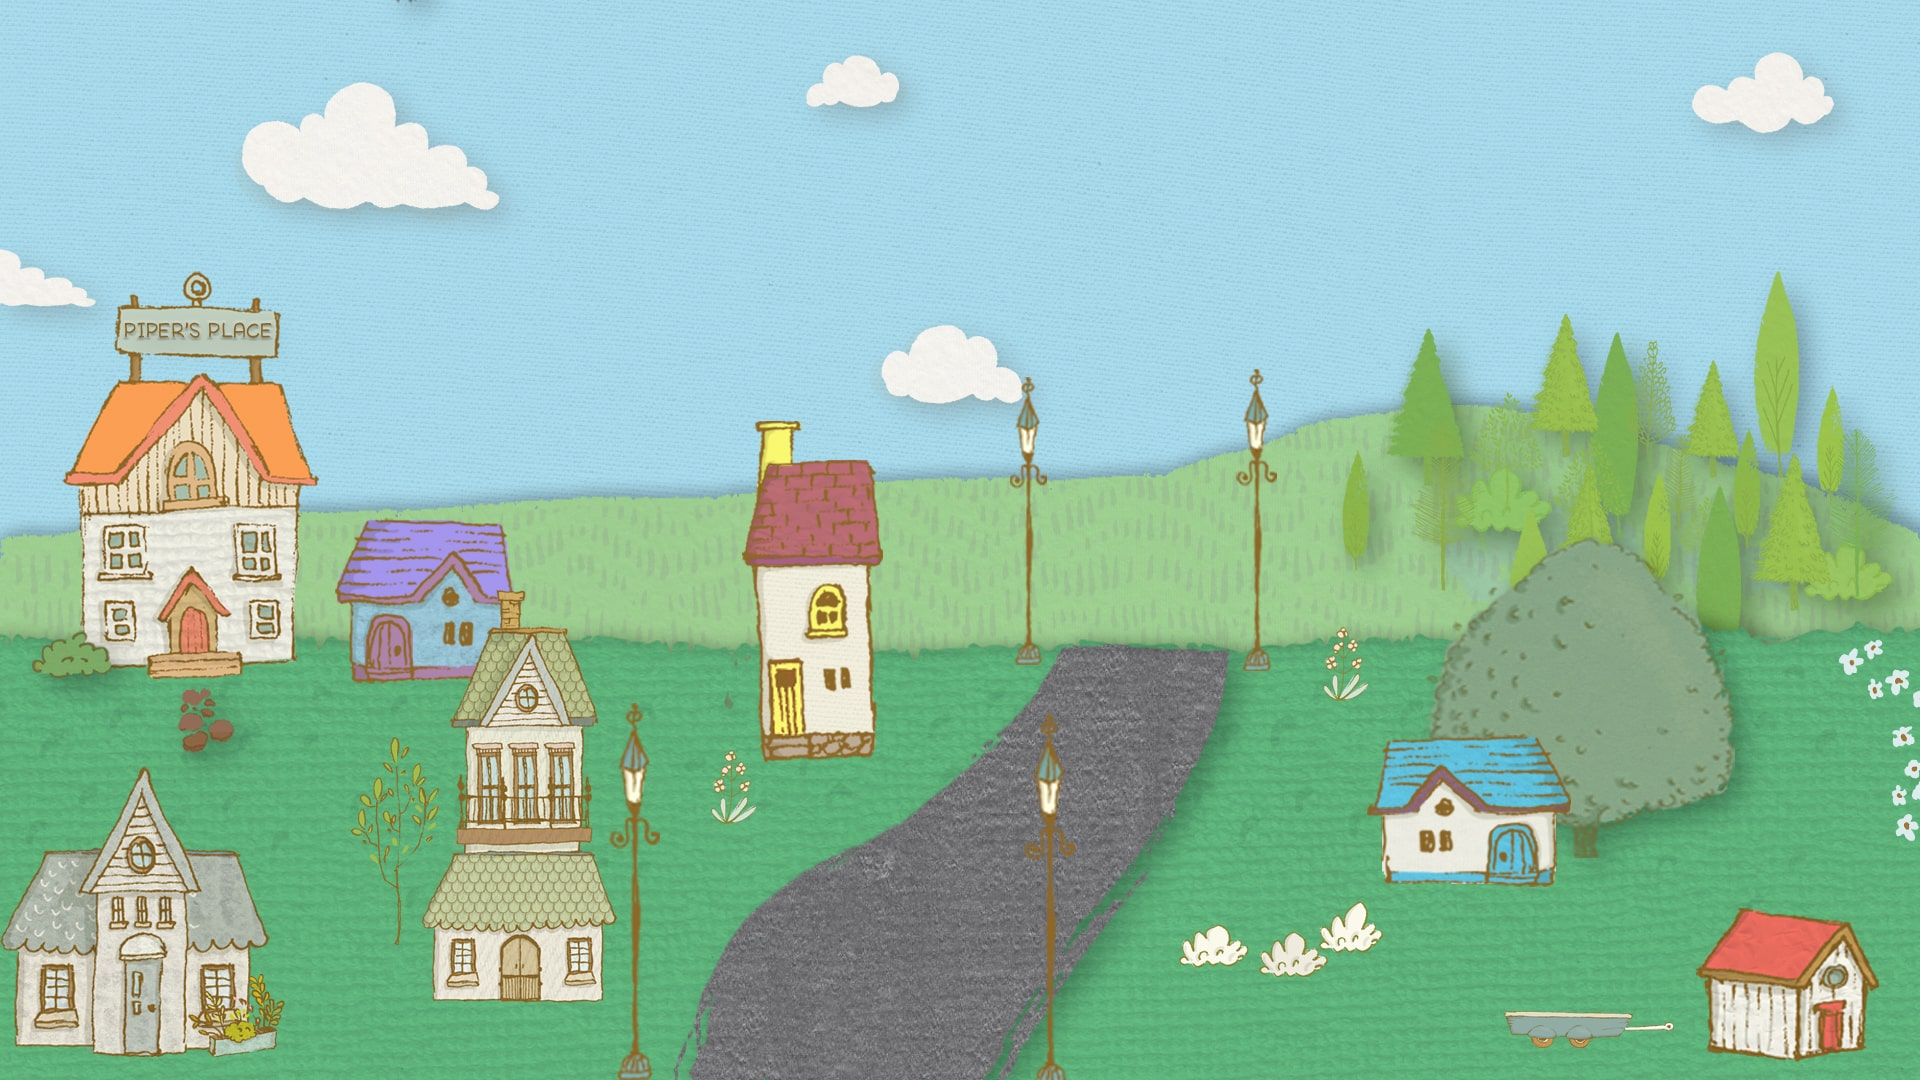
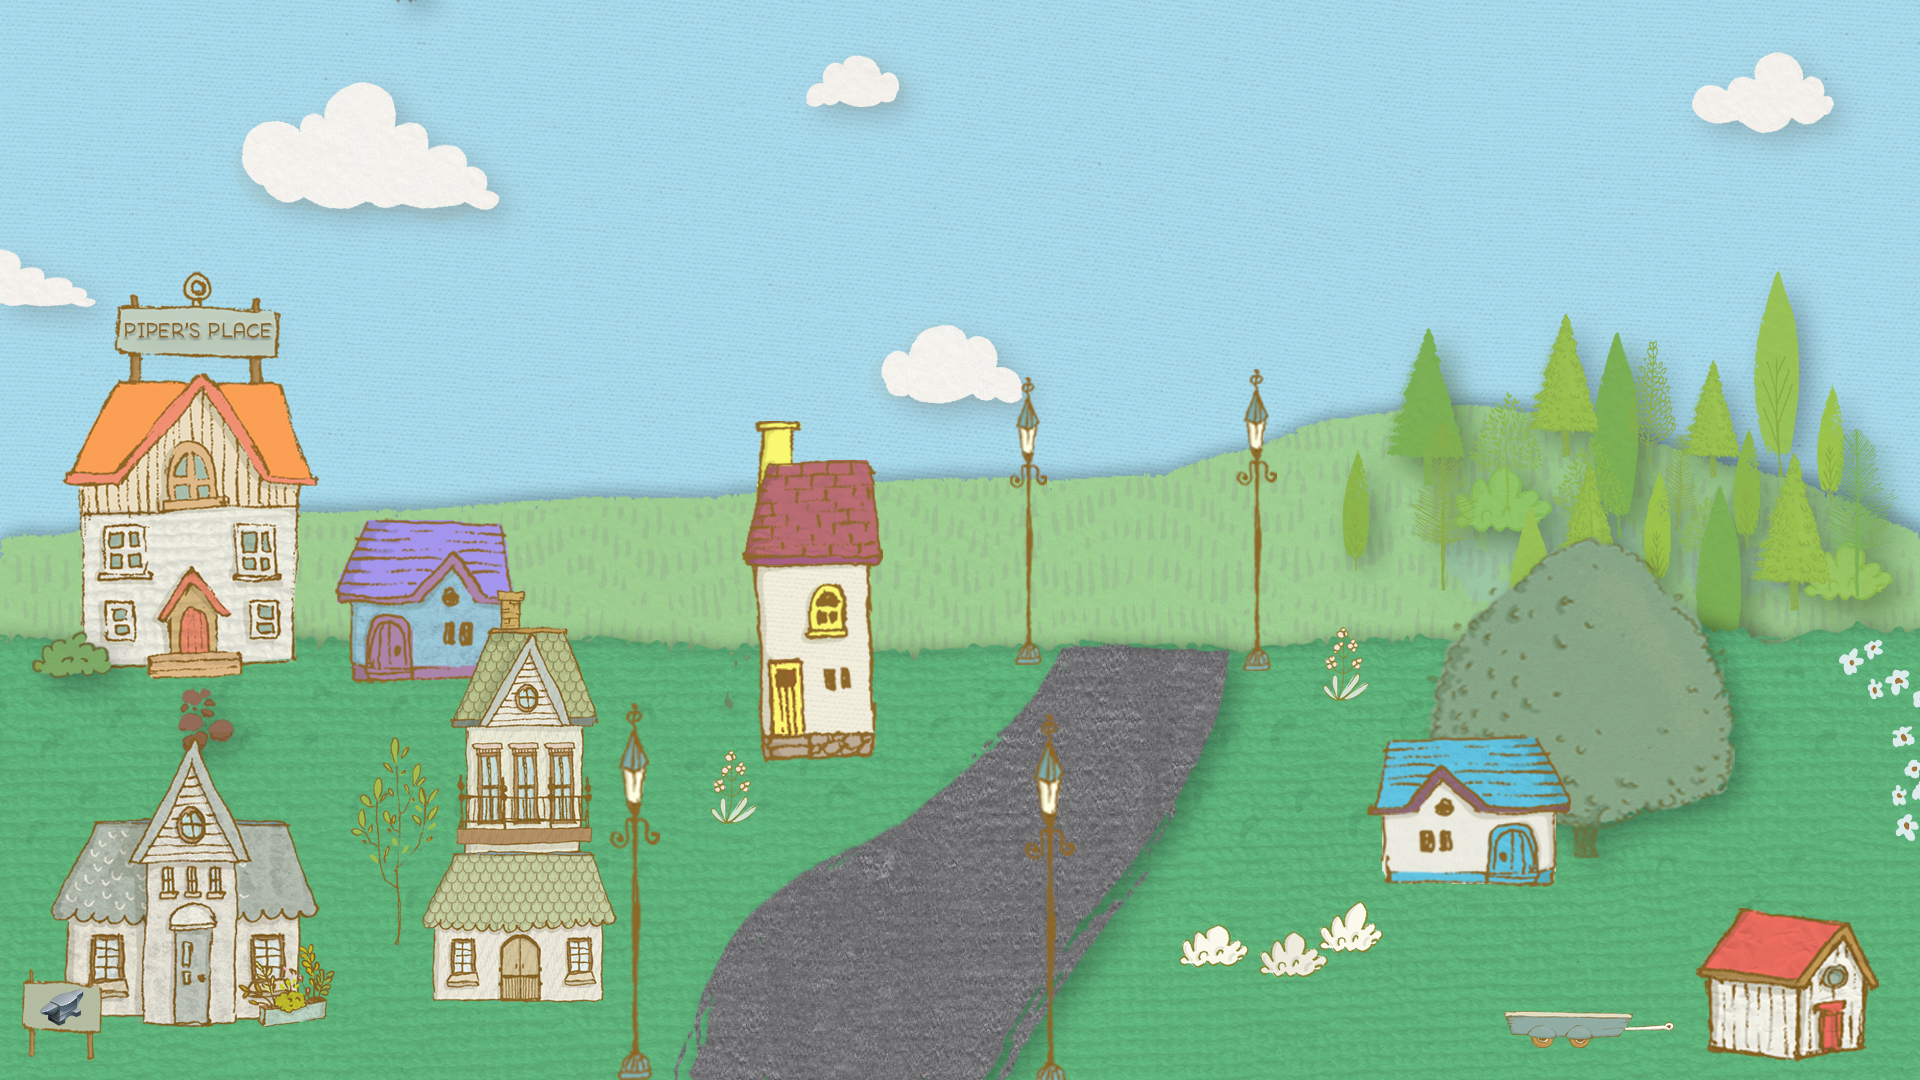
Updates

diff --git a/src/pages/CaCoTaMo.vue b/src/pages/CaCoTaMo.vue
@@ -17,7 +17,7 @@
           and once a week, likely every Sunday I'll be taking a day to do some cleanup and bug fixes. I'm hoping to do something every day, but like with NaNoWriMo, the end goal is what's important.
           Some days I may fall ahead, and others I might do more than one task. But you'll be able to check in every step of the way to see where we're headed.
           <br><br>
-          Most days probably won't involve a full site update, but the plan is to get new features up and running once their working, so you can expect progress at least every Monday throughout November.
+          Most days probably won't involve a full site update, but the plan is to get new features up and running once they're working (the Tasklin level up stuff will need to be tested first though), so you can expect progress at least every Monday throughout November.
           And, as always, if you have any issues, please use the help button via the ? button and submit a ticket (you should be able to access this on mobile now as well from the home page). 
         </div>
         </div>
@@ -40,10 +40,10 @@
 
         <div class="tamo-list row">
           <div class="tamo-task task-true">Update Tasklin Moods</div>
-          <div class="tamo-task task-false">Tasklins Show Level 2+ Art</div>
-          <div class="tamo-task task-false">Complete Tasklin Creator</div>
-          <div class="tamo-task task-false">Add Tasklin Stats</div>
-          <div class="tamo-task task-false">Tasklins Can Level Up</div>
+          <div class="tamo-task task-true">Tasklins Show Level 2+ Art</div>
+          <div class="tamo-task task-true">Complete Tasklin Creator</div>
+          <div class="tamo-task task-true">Add Tasklin Stats</div>
+          <div class="tamo-task task-true">Tasklins Can Level Up</div>
         </div>
 
         <div class="tamo-list row">
@@ -51,15 +51,15 @@
           <div class="tamo-task task-false">Better Sort on Challenges</div>
           <div class="tamo-task task-false">Update Tasklins.com</div>
           <div class="tamo-task task-false">Open for Public SignUps</div>
-          <div class="tamo-task task-false">Update Home Page To Do List</div>
+          <div class="tamo-task task-true">Update Home Page To Do List</div>
         </div>
 
         <div class="tamo-list row">
           <div class="tamo-task task-true">Tasklin Nose/Eyelid Art</div>
           <div class="tamo-task task-true">More Tasklin Body Types</div>
           <div class="tamo-task task-true">Blacksmith Art</div>
-          <div class="tamo-task task-false">Tasklin Ears/Horns Art</div>
-          <div class="tamo-task task-false">Tasklin Pattern Art</div>
+          <div class="tamo-task task-true">Tasklin Ears/Horns Art</div>
+          <div class="tamo-task task-true">Tasklin Pattern Art</div>
         </div>
 
         <div class="tamo-list row">

diff --git a/src/pages/map/town.vue b/src/pages/map/town.vue
@@ -1,8 +1,19 @@
 <template>
   <q-page padding>
     <div class="q-ma-lg">
+    <div class="center">
+      <q-btn @mouseover="showPiper = true" @mouseleave="showPiper = false" class="btn-fixed-width q-ma-sm" push to="/town" label="Piper's Place" color="secondary" />
+      <q-btn @mouseover="showBlacksmith = true" @mouseleave="showBlacksmith = false" class="btn-fixed-width q-ma-sm" push to="/start/pick-quasar-flavour" label="The Blacksmith" color="secondary" />
+      <q-btn class="btn-fixed-width q-ma-sm" push to="/explore" label="<--" color="secondary" />
+     <!--  <q-btn disable @mouseover="showTown = true" @mouseleave="showTown = false" class="btn-fixed-width q-ma-sm" push to="/start/pick-quasar-flavour" label="Island" color="secondary" />
+      <q-btn disable @mouseover="showTown = true" @mouseleave="showTown = false" class="btn-fixed-width q-ma-sm" push to="/start/pick-quasar-flavour" label="Mountains" color="secondary" />
+      <q-btn disable @mouseover="showTown = true" @mouseleave="showTown = false" class="btn-fixed-width q-ma-sm" push to="/start/pick-quasar-flavour" label="Floating" color="secondary" /> -->
+    </div>
+
+      <div v-show="showPiper" class="map-town town-map town-piper map-size" style="margin-top: 0%;  position: absolute;"></div>
+      <div v-show="showBlacksmith" class="map-town town-map town-blacksmith map-size" style="margin-top: 0%;  position: absolute;"></div>
       <div class="town-map" :class="!darkMode ? 'town-map-day' : 'town-map-night'"></div> 
-      <!-- <div v-show="showTown" class="world-map map-town map-size" style="margin-top: 0%;  position: absolute;"></div> -->
+      
     </div>
    </q-page>
 </template>
@@ -13,7 +24,8 @@ import { mapGetters} from "vuex";
 export default {
     data() {
     return {
-
+      showPiper: false,
+      showBlacksmith: false,
     };
   },
   computed: {

diff --git a/src/store/store-tasks.js b/src/store/store-tasks.js
@@ -379,8 +379,16 @@ const getters = {
       let formattedToday = moment(today).format("YYYY-MM-DD");
 
       if (moment(formattedTaskDueDate).isSame(formattedToday, "day")) {
-        tasks[key] = task;
+        tasks[key] = task;}
+
+      if (task.completedDate != undefined) {
+        if (
+          task.completed &&
+          moment(moment(task.completedDate).format("YYYY-MM-DD")).isSame(
+            moment().format("YYYY-MM-DD"), "day")
+        ) {tasks[key] = task;}
       }
+      
     });
 
     return tasks;
@@ -455,12 +463,8 @@ const getters = {
         if (
           task.completed &&
           moment(moment(task.completedDate).format("YYYY-MM-DD")).isSame(
-            moment().format("YYYY-MM-DD"),
-            "day"
-          )
-        ) {
-          tasks[key] = task;
-        }
+            moment().format("YYYY-MM-DD"), "day")
+        ) {tasks[key] = task;}
       }
     });
     return tasks;

diff --git a/src/css/pages/_explore.scss b/src/css/pages/_explore.scss
@@ -32,3 +32,11 @@
    .map-forest {
     background-image: url("/statics/backgrounds/map-forest.png"); 
    }
+
+   .town-piper {
+    background-image: url("/statics/backgrounds/town-piper.png"); 
+   }
+
+   .town-blacksmith {
+    background-image: url("/statics/backgrounds/town-blacksmith.png"); 
+   }
